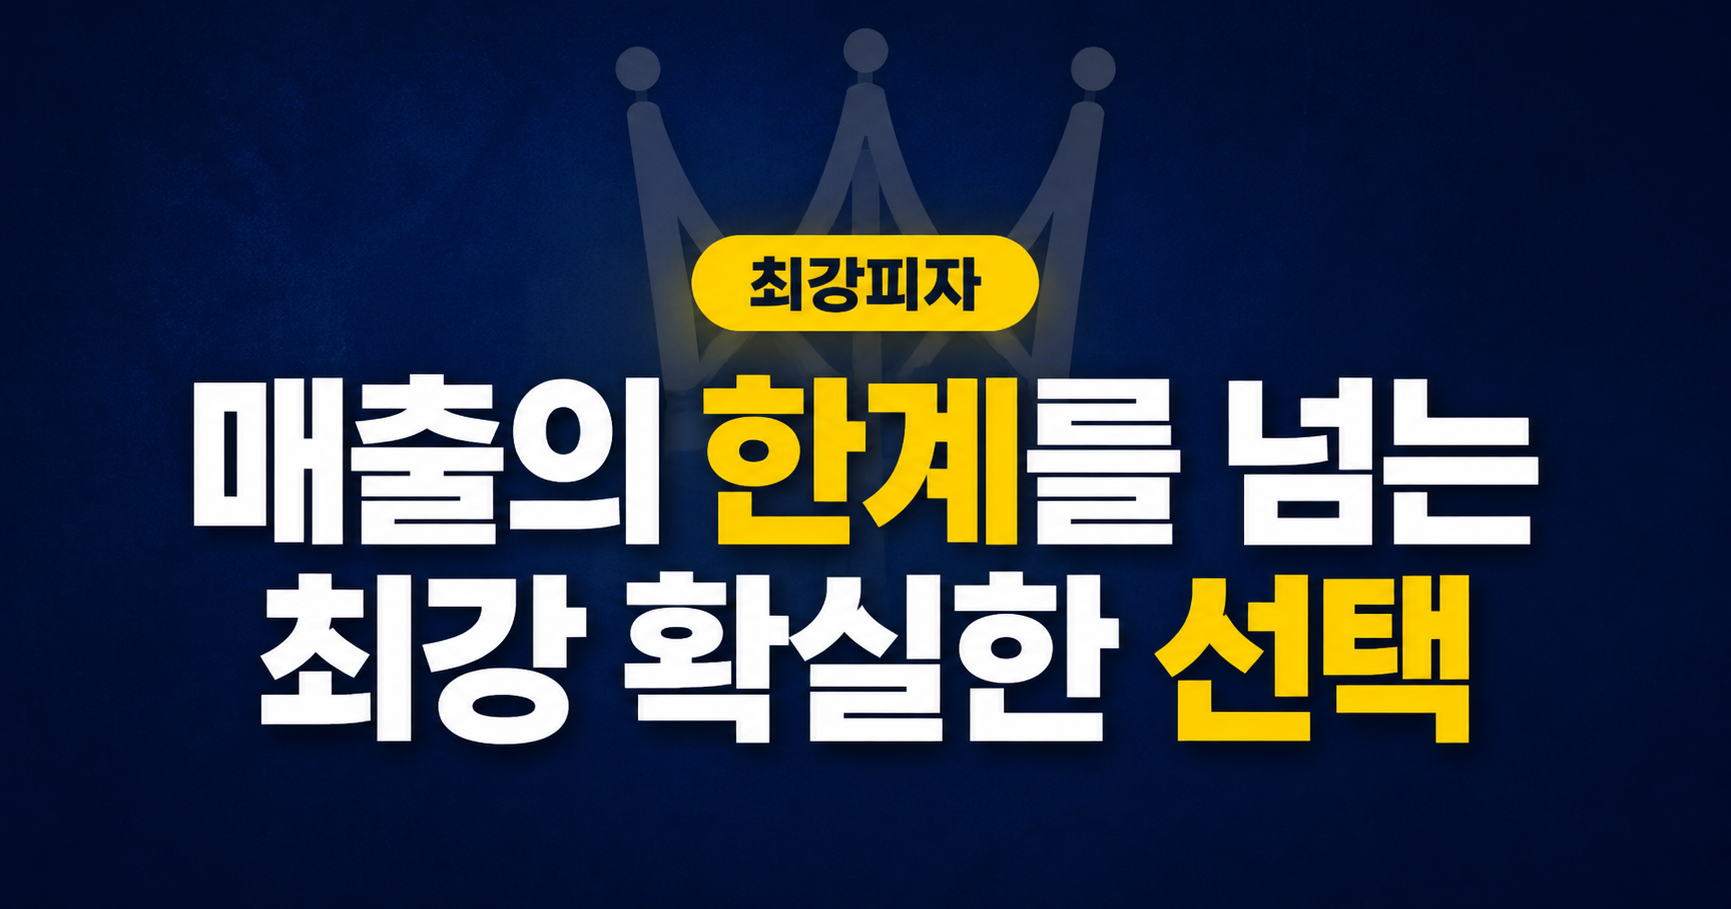
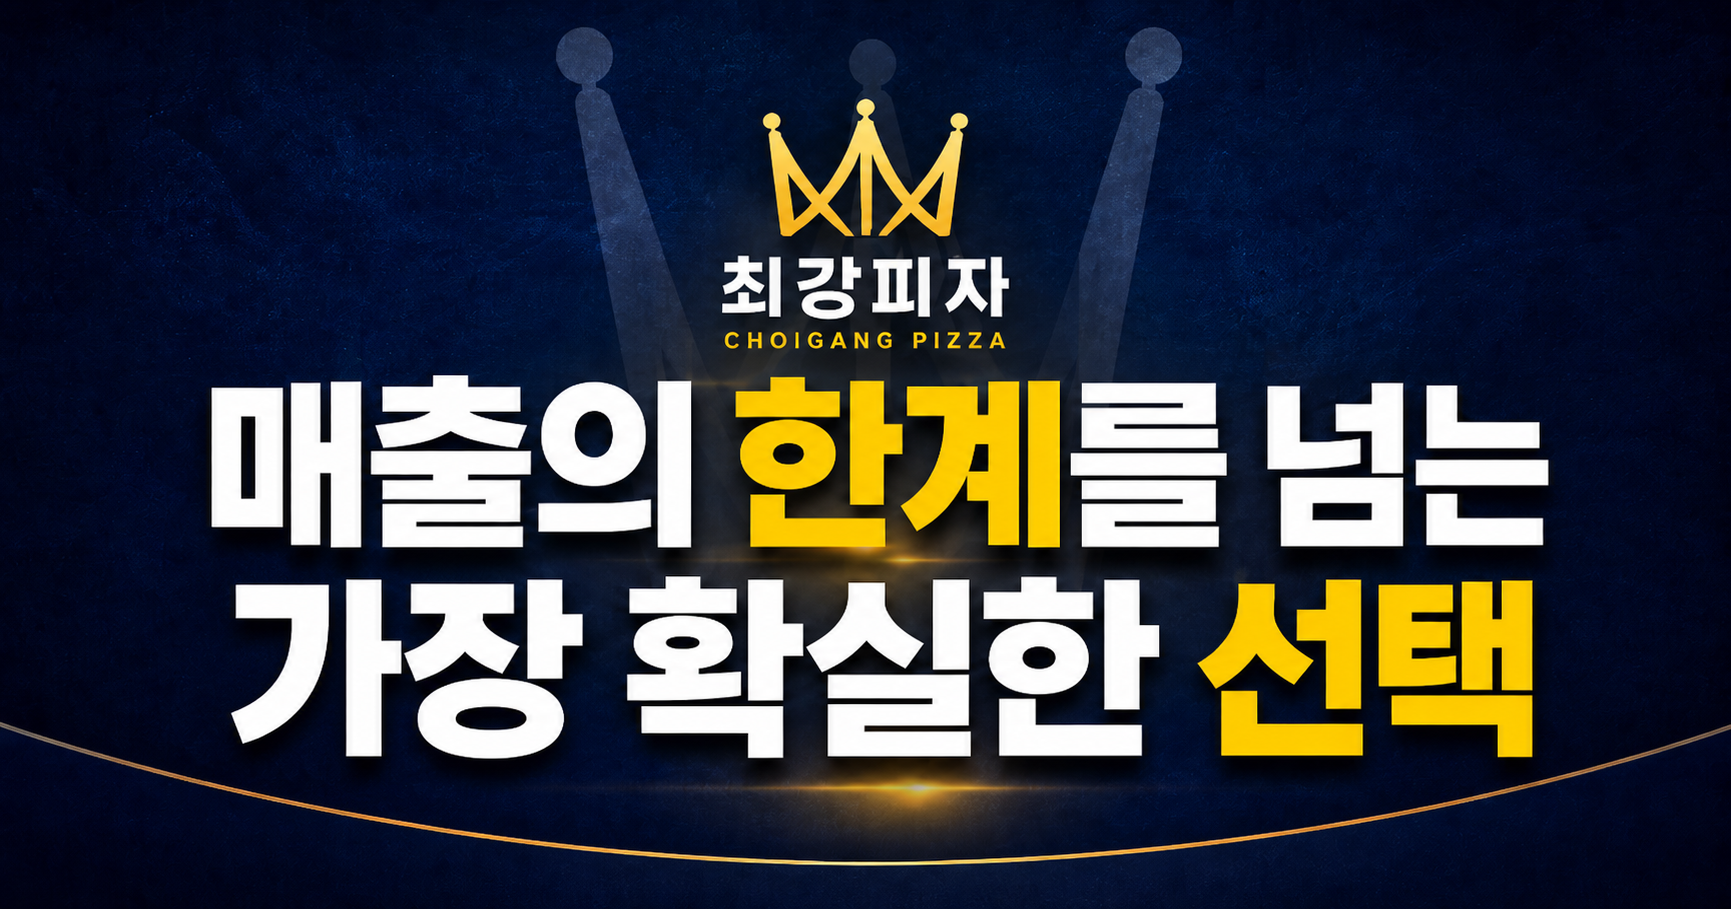
Refresh Kakao SEO image asset

diff --git a/src/lib/ported-homepage-data.ts b/src/lib/ported-homepage-data.ts
@@ -113,8 +113,8 @@ export const portedHomepageData = {
     title: "최강피자 공식 홈페이지 | 부천본점·피자창업 가맹 문의",
     description:
       "최강피자 부천본점 메뉴, 방문포장 할인, 파로 도우 피자, 피자창업·샵인샵 가맹 상담을 안내합니다.",
-    ogImage: "/assets/user/최강피자SEO.png",
-    ogImages: ["/assets/user/최강피자SEO.png"],
+    ogImage: "/assets/user/최강피자SEO.png?v=20260503-2",
+    ogImages: ["/assets/user/최강피자SEO.png?v=20260503-2"],
   },
   navItems: [
     { label: "최강 메뉴", href: "#menu-section" },

diff --git a/src/app/layout.tsx b/src/app/layout.tsx
@@ -8,7 +8,7 @@ const googleAnalyticsId = "G-G9ZWHC3L9L";
 const naverAnalyticsId = "1c48f0bc7c4f170";
 const defaultDescription =
   "최강피자 부천본점 메뉴, 방문포장 할인, 파로 도우 피자, 피자창업·샵인샵 가맹 상담을 안내합니다.";
-const defaultImage = "/assets/user/최강피자SEO.png";
+const defaultImage = "/assets/user/최강피자SEO.png?v=20260503-2";
 
 export const metadata: Metadata = {
   metadataBase: new URL(siteUrl),